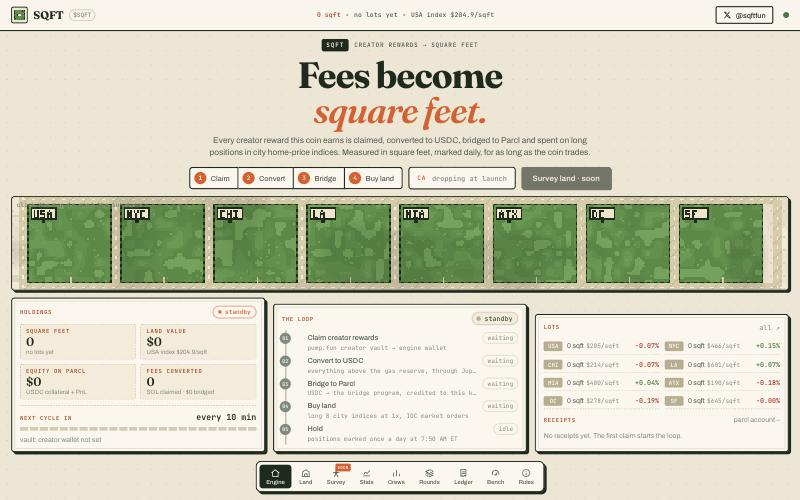
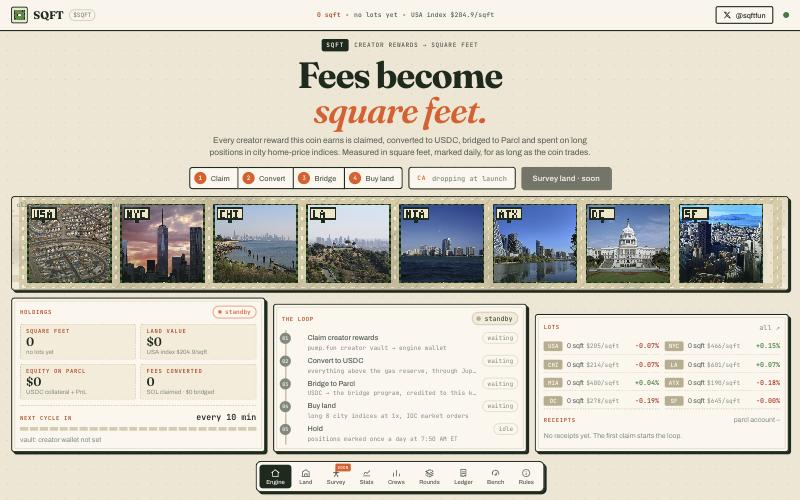
Real city photos inside the lots
Each lot shows a Wikimedia Commons photo of its city (CC0 / public domain /
CC BY-SA), cover-fitted under a transparent overlay that keeps the signs,
houses, stakes and the surveyor on top. Credits on /rules and in the README.

Changed region(s): [[0.0312, 0.39, 0.9688, 0.57]]

diff --git a/public/land.js b/public/land.js
@@ -1,6 +1,6 @@
 // The land: a surveyor's plat map drawn into a low-resolution buffer and scaled up
 // with hard edges. Paper with a survey grid and contour lines, a river, roads, and
-// eight lots (one per city index). Lots fill with houses as square feet are bought;
+// eight lots (one per city index), each showing a real photo of its city. Lots fill with houses as square feet are bought;
 // dollars still on the way show as survey stakes. A surveyor walks the roads.
 //
 //   setLots([{ key, label, sqft, reserved }])   what each lot holds; drives houses and stakes
@@ -100,6 +100,8 @@ export class LandScene {
     this.particles = []; this.labels = []; this.stakes = [];
     this.sweepAt = -9;
     this.surveyor = { x: 0, y: 0, tx: 0, ty: 0, walk: 0, job: null, idleAt: 0 };
+    this.photos = {};                     // key -> HTMLImageElement, a real photo of each city drawn inside its lot
+    for (const [key] of DEFAULT_LOTS) this.loadPhoto(key);
     canvas.style.cursor = 'pointer';
     canvas.addEventListener('pointerdown', () => { if (!this.backdrop && this.lots.length) this.queue.push({ lot: this.lots[(Math.random() * this.lots.length) | 0], kind: 'stake' }); });
     new ResizeObserver(() => this.resize()).observe(canvas);
@@ -109,11 +111,22 @@ export class LandScene {
     requestAnimationFrame(this.frame);
   }
 
+  loadPhoto(key) {
+    if (this.photos[key]) return;
+    const im = new Image();
+    im.decoding = 'async';
+    im.src = `/cities/${key.toLowerCase()}.jpg`;
+    im.onload = () => { this.photos[key] = im; };
+    im.onerror = () => { delete this.photos[key]; };
+    this.photos[key] = im;
+  }
+
   // ---------- public ----------
   setActivity({ running, level = 0 }) { this.running = running; this.level = running ? Math.max(0.12, clamp01(level)) : 0; }
   setLots(data) {
     if (!Array.isArray(data) || !data.length) return;
     this.lotData = data.map(d => ({ key: d.key ?? d.name, label: d.label ?? d.key, sqft: Number(d.sqft) || 0, reserved: Number(d.reserved) || 0 }));
+    for (const d of this.lotData) this.loadPhoto(d.key);
     if (this.lots.length !== this.lotData.length) this.build();
     this.sync(this.first);
     this.first = false;
@@ -146,6 +159,10 @@ export class LandScene {
     this.buf = Object.assign(document.createElement('canvas'), { width: W, height: H });
     this.bctx = this.buf.getContext('2d');
     this.img = this.bctx.createImageData(W, H);
+    this.obuf = Object.assign(document.createElement('canvas'), { width: W, height: H });
+    this.octx = this.obuf.getContext('2d');
+    this.ovl = this.octx.createImageData(W, H);
+    this.target = this.img;
     this.build();
     this.sync(true);
   }
@@ -323,28 +340,50 @@ export class LandScene {
         if (cl > 0.66) { const k = 1 - Math.min(0.09, (cl - 0.66) * 0.6); r *= k; g *= k; b *= k; }
       }
       if (b > r + 30 && g > r && ((x + ((t * 6) | 0)) % 11 === 0) && (y % 3 === 0)) { r += 40; g += 30; b += 20; }
-      if (sweepY >= 0 && Math.abs(y - sweepY) < 1.5) { r = (r + ORANGE[0] * 2) / 3; g = (g + ORANGE[1] * 2) / 3; b = (b + ORANGE[2] * 2) / 3; }
       d[o] = r; d[o + 1] = g; d[o + 2] = b; d[o + 3] = 255;
     }
-    for (const l of this.lots) this.drawLot(l);
-    for (const k of this.stakes) this.sprite(STAKE, k.x, k.y);
-    for (const b of this.builds) this.drawBuild(b);
-    this.drawSurveyor();
-    for (const p of this.particles) this.px(p.x, p.y, p.c);
     this.bctx.putImageData(img, 0, 0);
     const { ctx, dpr, w, h, P } = this;
     ctx.setTransform(dpr, 0, 0, dpr, 0, 0);
     ctx.clearRect(0, 0, w, h);
     ctx.imageSmoothingEnabled = false;
     ctx.drawImage(this.buf, 0, 0, W * P, H * P);
+    // the photo of each city inside its boundary, cover-fitted, with a little shade at the foot for the sprites
+    ctx.imageSmoothingEnabled = true;
+    ctx.imageSmoothingQuality = 'high';
+    for (const l of this.lots) {
+      const im = this.photos[l.key];
+      if (!im || !im.complete || !im.naturalWidth) continue;
+      const dx = (l.x + 1) * P, dy = (l.y + 1) * P, dw = (l.w - 2) * P, dh = (l.h - 2) * P;
+      const s = Math.max(dw / im.naturalWidth, dh / im.naturalHeight), sw = dw / s, sh = dh / s;
+      ctx.drawImage(im, (im.naturalWidth - sw) / 2, (im.naturalHeight - sh) / 2, sw, sh, dx, dy, dw, dh);
+      const g = ctx.createLinearGradient(0, dy + dh * 0.45, 0, dy + dh);
+      g.addColorStop(0, 'rgba(28,42,30,0)'); g.addColorStop(1, 'rgba(28,42,30,.45)');
+      ctx.fillStyle = g; ctx.fillRect(dx, dy, dw, dh);
+    }
+    ctx.imageSmoothingEnabled = false;
+    // everything that lives on top: signs, stakes, houses, the surveyor, sparks, the survey sweep
+    this.ovl.data.fill(0);
+    this.target = this.ovl;
+    if (sweepY >= 0) for (let x = 0; x < W; x++) this.px(x, sweepY, ORANGE, 0.8);
+    for (const l of this.lots) this.drawLot(l);
+    for (const k of this.stakes) this.sprite(STAKE, k.x, k.y);
+    for (const b of this.builds) this.drawBuild(b);
+    this.drawSurveyor();
+    for (const p of this.particles) this.px(p.x, p.y, p.c);
+    this.target = this.img;
+    this.octx.putImageData(this.ovl, 0, 0);
+    ctx.drawImage(this.obuf, 0, 0, W * P, H * P);
     this.drawLabels();
   }
 
   px(x, y, c, a = 1) {
     x |= 0; y |= 0;
     if (x < 0 || y < 0 || x >= this.W || y >= this.H) return;
-    const o = (y * this.W + x) * 4, d = this.img.data;
+    const o = (y * this.W + x) * 4, d = this.target.data;
+    if (this.target === this.ovl && d[o + 3] === 0) { d[o] = c[0]; d[o + 1] = c[1]; d[o + 2] = c[2]; d[o + 3] = Math.round(a * 255); return; }
     d[o] += (c[0] - d[o]) * a; d[o + 1] += (c[1] - d[o + 1]) * a; d[o + 2] += (c[2] - d[o + 2]) * a;
+    if (this.target === this.ovl) d[o + 3] = Math.max(d[o + 3], Math.round(a * 255));
   }
   sprite(rows, x, y, colors = PAL) {
     rows.forEach((row, j) => { for (let i = 0; i < row.length; i++) if (row[i] !== '.' && colors[row[i]]) this.px(x + i, y + j, colors[row[i]]); });

diff --git a/public/index.html b/public/index.html
@@ -332,6 +332,9 @@
           <div><span>06</span><b>Round</b><p id="fundingRule">At round close the pot is split by share of verified survey work. Balances over the threshold are paid out and logged in the ledger.</p></div>
         </div>
         <p class="muted small" id="rulesConfig"></p>
+        <h2 class="section">Photo credits</h2>
+        <p class="lede">The lots on the map show real photographs of each city, from Wikimedia Commons.</p>
+        <ul class="credits"><li><b>USA</b> · <a href="https://commons.wikimedia.org/wiki/File:Suburbia_by_David_Shankbone.jpg" target="_blank" rel="noopener">Suburbia by David Shankbone.jpg</a> · David Shankbone · CC BY-SA 3.0</li><li><b>New York City</b> · <a href="https://commons.wikimedia.org/wiki/File:One_World_Trade_Center_and_New_York_Sunset.jpg" target="_blank" rel="noopener">One World Trade Center and New York Sunset.jpg</a> · ID 2649771 · CC0</li><li><b>Chicago</b> · <a href="https://commons.wikimedia.org/wiki/File:Morning_view_of_the_downtown_skyline_from_near_Morgan_Point_along_Lakefront_Trail,_Chicago,_2025.jpg" target="_blank" rel="noopener">Morning view of the downtown skyline from near Morgan Point along Lakefront Trail, Chicago, 2025.jpg</a> · DimiTalen · CC0</li><li><b>Los Angeles</b> · <a href="https://commons.wikimedia.org/wiki/File:Griffith_Observatory_with_Downtown_Los_Angeles_In_The_Background_-_54084315490.jpg" target="_blank" rel="noopener">Griffith Observatory with Downtown Los Angeles In The Background - 54084315490.jpg</a> · The Fun Chronicles · CC0</li><li><b>Miami</b> · <a href="https://commons.wikimedia.org/wiki/File:Miami_skyline_from_Biscayne_Bay,_Florida_LCCN2011634548.tif" target="_blank" rel="noopener">Miami skyline from Biscayne Bay, Florida LCCN2011634548.tif</a> · Carol M. Highsmith · Public domain</li><li><b>Austin</b> · <a href="https://commons.wikimedia.org/wiki/File:Lady_Bird_Lake_in_Austin,_Texas.jpg" target="_blank" rel="noopener">Lady Bird Lake in Austin, Texas.jpg</a> · Rish0203 · CC0</li><li><b>Washington, DC</b> · <a href="https://commons.wikimedia.org/wiki/File:United_States_Capitol_-_west_front_edit.jpg" target="_blank" rel="noopener">United States Capitol - west front edit.jpg</a> · Architect of the Capitol · Public domain</li><li><b>San Francisco</b> · <a href="https://commons.wikimedia.org/wiki/File:San_Francisco_city_skyline.jpg" target="_blank" rel="noopener">San Francisco city skyline.jpg</a> · Lisafern · CC0</li></ul>
       </article>
     </div>
   </main>

diff --git a/public/style.css b/public/style.css
@@ -504,3 +504,10 @@ h2.section { font: 600 22px var(--serif); letter-spacing: -.01em; margin: 26px 0
   .view.enter > *, .view.enter .sheet article:not([hidden]) > * { animation: none !important; }
   .fx-scramble { animation: none !important; }
 }
+
+/* photo credits */
+.credits { list-style: none; margin: 0 0 20px; padding: 4px 16px; border-radius: var(--r); border: 2px solid var(--ink); background: var(--paper-2); box-shadow: var(--drop-sm); }
+.credits li { padding: 9px 0; border-bottom: 1px dashed var(--line); font-size: 12.5px; color: var(--ink-2); }
+.credits li:last-child { border-bottom: 0; }
+.credits li b { color: var(--ink); }
+.credits a { color: var(--accent-2); }

diff --git a/README.md b/README.md
@@ -105,4 +105,17 @@ tools/pixelart.py  brand art (PIL), regenerates the PNGs in public/
 vendor/pumpkit     Solana / pump.fun toolkit (claims, swaps, transfers)
 ```
 
+## Photo credits
+
+The lots on the map show real photographs of each city, from Wikimedia Commons:
+
+- **USA**: [Suburbia by David Shankbone.jpg](https://commons.wikimedia.org/wiki/File:Suburbia_by_David_Shankbone.jpg) · David Shankbone · CC BY-SA 3.0
+- **New York City**: [One World Trade Center and New York Sunset.jpg](https://commons.wikimedia.org/wiki/File:One_World_Trade_Center_and_New_York_Sunset.jpg) · ID 2649771 · CC0
+- **Chicago**: [Morning view of the downtown skyline from near Morgan Point along Lakefront Trail, Chicago, 2025.jpg](https://commons.wikimedia.org/wiki/File:Morning_view_of_the_downtown_skyline_from_near_Morgan_Point_along_Lakefront_Trail,_Chicago,_2025.jpg) · DimiTalen · CC0
+- **Los Angeles**: [Griffith Observatory with Downtown Los Angeles In The Background - 54084315490.jpg](https://commons.wikimedia.org/wiki/File:Griffith_Observatory_with_Downtown_Los_Angeles_In_The_Background_-_54084315490.jpg) · The Fun Chronicles · CC0
+- **Miami**: [Miami skyline from Biscayne Bay, Florida LCCN2011634548.tif](https://commons.wikimedia.org/wiki/File:Miami_skyline_from_Biscayne_Bay,_Florida_LCCN2011634548.tif) · Carol M. Highsmith · Public domain
+- **Austin**: [Lady Bird Lake in Austin, Texas.jpg](https://commons.wikimedia.org/wiki/File:Lady_Bird_Lake_in_Austin,_Texas.jpg) · Rish0203 · CC0
+- **Washington, DC**: [United States Capitol - west front edit.jpg](https://commons.wikimedia.org/wiki/File:United_States_Capitol_-_west_front_edit.jpg) · Architect of the Capitol · Public domain
+- **San Francisco**: [San Francisco city skyline.jpg](https://commons.wikimedia.org/wiki/File:San_Francisco_city_skyline.jpg) · Lisafern · CC0
+
 Not financial advice. Perpetual futures carry funding and can be liquidated; at 1x on a daily-marked index that risk is small but not zero. The engine is the only thing that trades, and it only ever buys.
